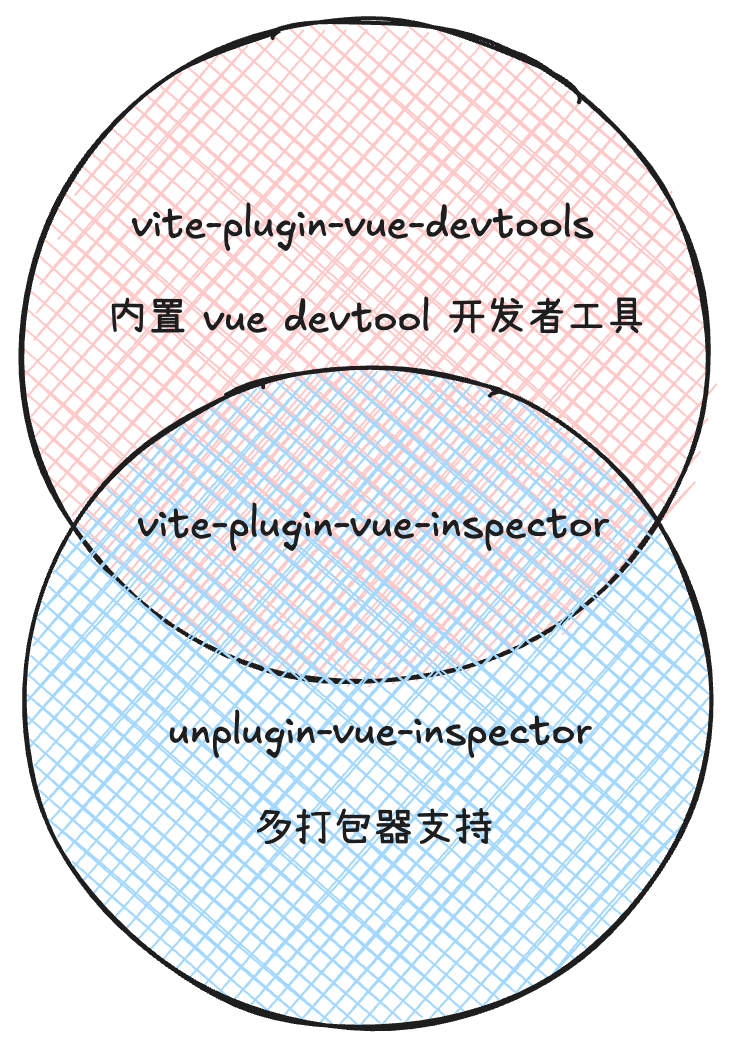
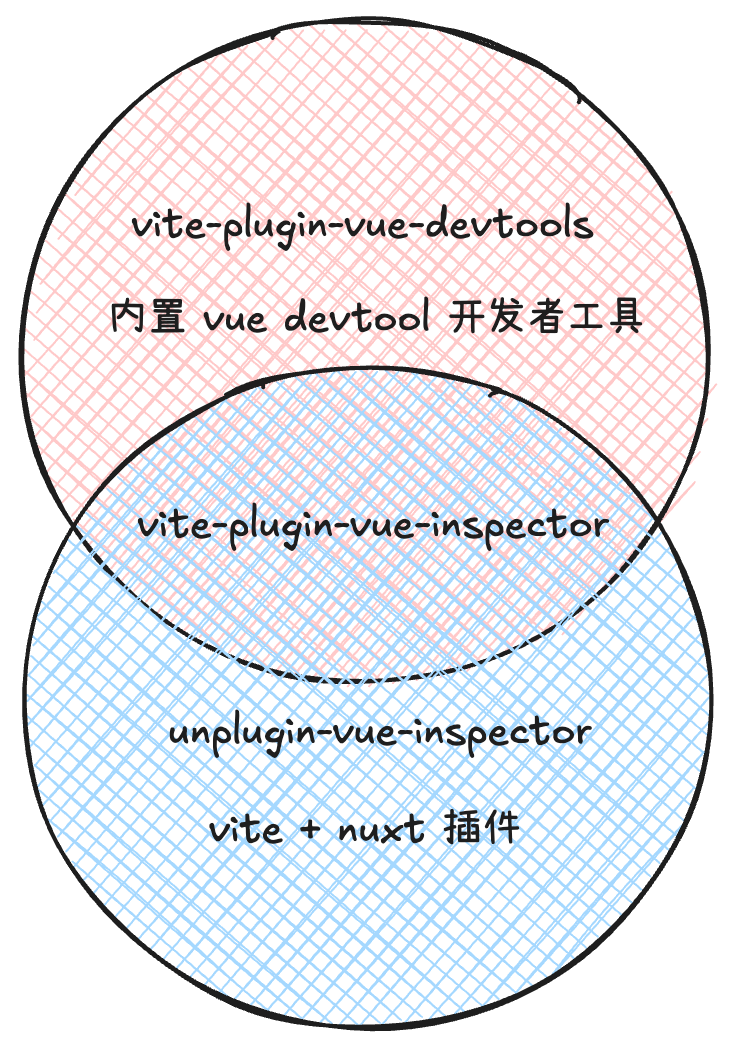
chore(deps): upgrade

Changed region(s): [[0.3018, 0.7634, 0.7243, 0.8244]]

diff --git a/docs/utils/inspect.md b/docs/utils/inspect.md
@@ -1,33 +1,44 @@
 # 点击浏览器的元素时自动跳转到本地 IDE
 
-## 前言
-
-为了加快开发者快速从浏览器中，跳转到本地 `IDE` 中查看元素。在尝试了几种方案之后，最终选用了:
-
-[vite-plugin-vue-inspector](https://www.npmjs.com/package/vite-plugin-vue-inspector) 和 [unplugin-vue-inspector](https://www.npmjs.com/package/unplugin-vue-inspector)
-
-原因主要在于: 
-
-1. 它是由 `vue` 官方团队维护的项目，已经被写在了 [devtools.vuejs.org](https://devtools.vuejs.org/) 文档上，不用担心烂尾，
-2. 它支持 `vue2` / `vue3` / `SSR`，符合我们多 `vue` 版本项目的现状。
-3. 它支持 `vite` 和 `webpack` 集成，符合我们项目多打包器共存的现状。
-4. 它支持多种 `IDE` 集成，跳转到指定代码行的能力，符合我们目前 `vscode` / `webstorm` 混用的现状
-
 ## 选型
 
-接下来所有的项目都使用 [unplugin-vue-inspector](https://www.npmjs.com/package/unplugin-vue-inspector) 这个插件去注册
+为了加快开发者快速从浏览器中，跳转到本地 `IDE` 中查看元素。在尝试了几种方案之后，最终选用了混合方案:
 
-原因在于 [unplugin-vue-inspector](https://www.npmjs.com/package/unplugin-vue-inspector) 实际上是 [vite-plugin-vue-inspector](https://www.npmjs.com/package/vite-plugin-vue-inspector) 的超集，它包含了 `vite-plugin-vue-inspector` 所有的功能和代码，详见 扩展阅读-> 包含关系
+- `vite` 项目使用 [vite-plugin-vue-inspector](https://www.npmjs.com/package/vite-plugin-vue-inspector) 
+- `webpack(vue-cli)` 项目使用 [code-inspector-plugin](https://www.npmjs.com/package/code-inspector-plugin)
 
-## 安装插件
+### 为什么选用 `vite-plugin-vue-inspector`?
+
+#### 优势
+
+1. `vue` 官方团队维护的项目，已经被写在了 [devtools.vuejs.org](https://devtools.vuejs.org/) 文档上，不用担心烂尾，
+2. 和 `vue` 高度集成，注入效果好，支持 `vue2` / `vue3` / `SSR`，符合我们多 `vue` 版本项目的现状。
+3. 它支持多种 `IDE` 集成，跳转到指定代码行的能力，符合我们目前 `vscode` / `webstorm` 混用的现状
+
+#### 劣势
+
+但是它只支持 `vite`, 即使是它的超集 [unplugin-vue-inspector](https://www.npmjs.com/package/unplugin-vue-inspector)，在阅读过源代码之后，发现也只支持  `vite` 和 `nuxt`。
+
+### 为什么选用 `code-inspector-plugin`
+
+#### 优势
+
+1. 支持 `webpack` 以及 `vue2` / `vue3` 项目，符合项目现状
+
+#### 劣势
+
+1. 非官方团队维护，怕烂尾。
+2. 注入效果不如 `vite-plugin-vue-inspector`，需要显式在每个 `dom` 上注入一个属性 `data-insp-path` 属性
+
+## Vite 项目注册插件
+
+### 安装插件
 
 ```sh
 yarn add -D unplugin-vue-inspector
 # or
 pnpm i -D unplugin-vue-inspector
 ```
-
-## 注册插件
 
 ### Vite + Vue3 项目
 
@@ -46,18 +57,73 @@ export default defineConfig({
 
 ```ts
 import { defineConfig, } from 'vite'
-import { createVuePlugin, } from 'vite-plugin-vue2'
+import Vue from '@vitejs/plugin-vue2'
 import Inspector from 'unplugin-vue-inspector/vite'
 
 export default defineConfig({
   plugins: [
-    createVuePlugin(),
+    Vue(),
     Inspector({
       vue: 2
     }),
   ],
 })
 ```
+
+## Webpack (vue cli 项目) 注册插件
+
+### 安装插件
+
+```sh
+yarn add -D code-inspector-plugin
+
+pnpm i -D unplugin-vue-inspector
+```
+
+### 注册插件
+
+在你的 `vue.config.js` 文件中添加如下代码：
+
+```js
+const { defineConfig } = require('@vue/cli-service')
+const { codeInspectorPlugin } = require('code-inspector-plugin');
+
+module.exports = defineConfig({
+  transpileDependencies: true,
+  chainWebpack: (config) => {
+    config.plugin('code-inspector-plugin').use(
+      codeInspectorPlugin({
+        bundler: 'webpack',
+      })
+    );
+  },
+})
+```
+
+然后运行 `serve` 即可看到效果。另外一点值得注意的是，构建的时候，默认是不会进行任何的注入的，所以此插件可以直接注册，不需要环境变量进行控制。
+
+> 这个插件的功能是在每一个 `dom` 上注入一个属性 `data-insp-path` 对于的值为 `src/components/HelloWorld.vue:16:7:li`，然后在通过构造 `URL Scheme` 的方式(比如 `vscode://xxxxxyyyzzz`) 来，跳转到对应的代码行。
+
+### 使用功能
+
+打开浏览器控制台, 此时在你的 `console` 会显示一个信息:
+
+```
+[code-inspector-plugin]同时按住 shift + ⌥option 时启用功能(点击页面元素可定位至编辑器源代码)
+```
+
+然后你使用对于按键，点击页面元素，即可跳转到 `IDE` 对应的代码行。
+
+## 故障排查
+
+### 打开 Vscode 编辑器报错
+
+```txt
+Could not open index.vue in the editor.
+The editor process exited with an error: spawn code ENOENT ('code' command does not exist in 'PATH').
+```
+
+这是因为你没有在系统中注册 `code` 命令，可以通过 ctrl + shift + p 打开 `vscode` 的命令面板，然后输入 `shell command`，选择 `Shell Command: Install 'code' command in PATH`，然后重启 `vscode` 即可。
 
 ## 扩展阅读
 
@@ -72,3 +138,7 @@ export default defineConfig({
 ![](./inspect.png)
 
 
+## 参考资料
+
+- [vite-plugin-vue-inspector](https://www.npmjs.com/package/vite-plugin-vue-inspector)
+- [code-inspector-plugin](https://inspector.fe-dev.cn/)
